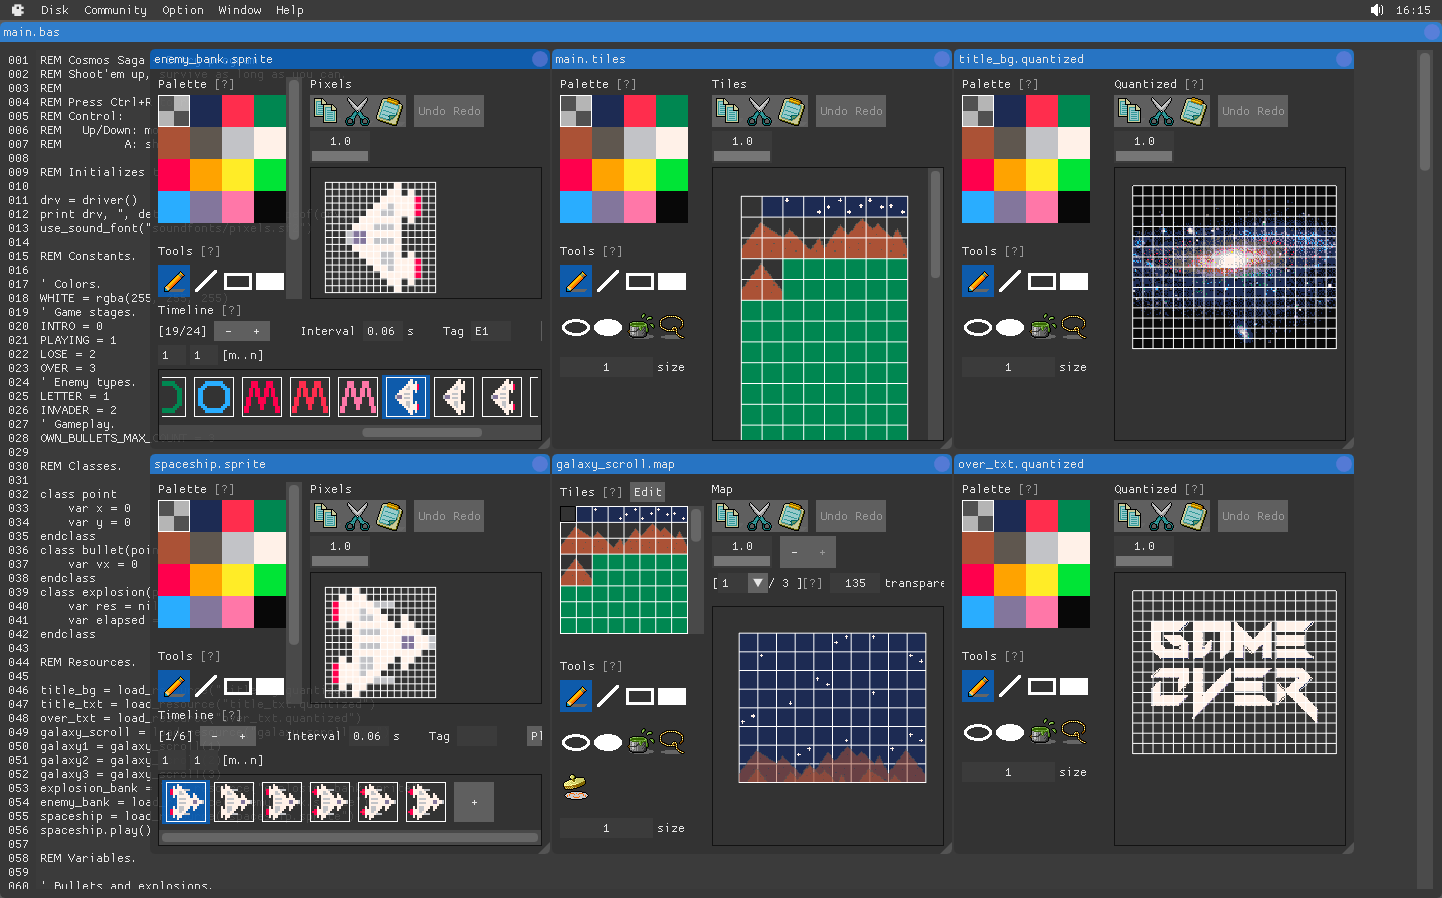
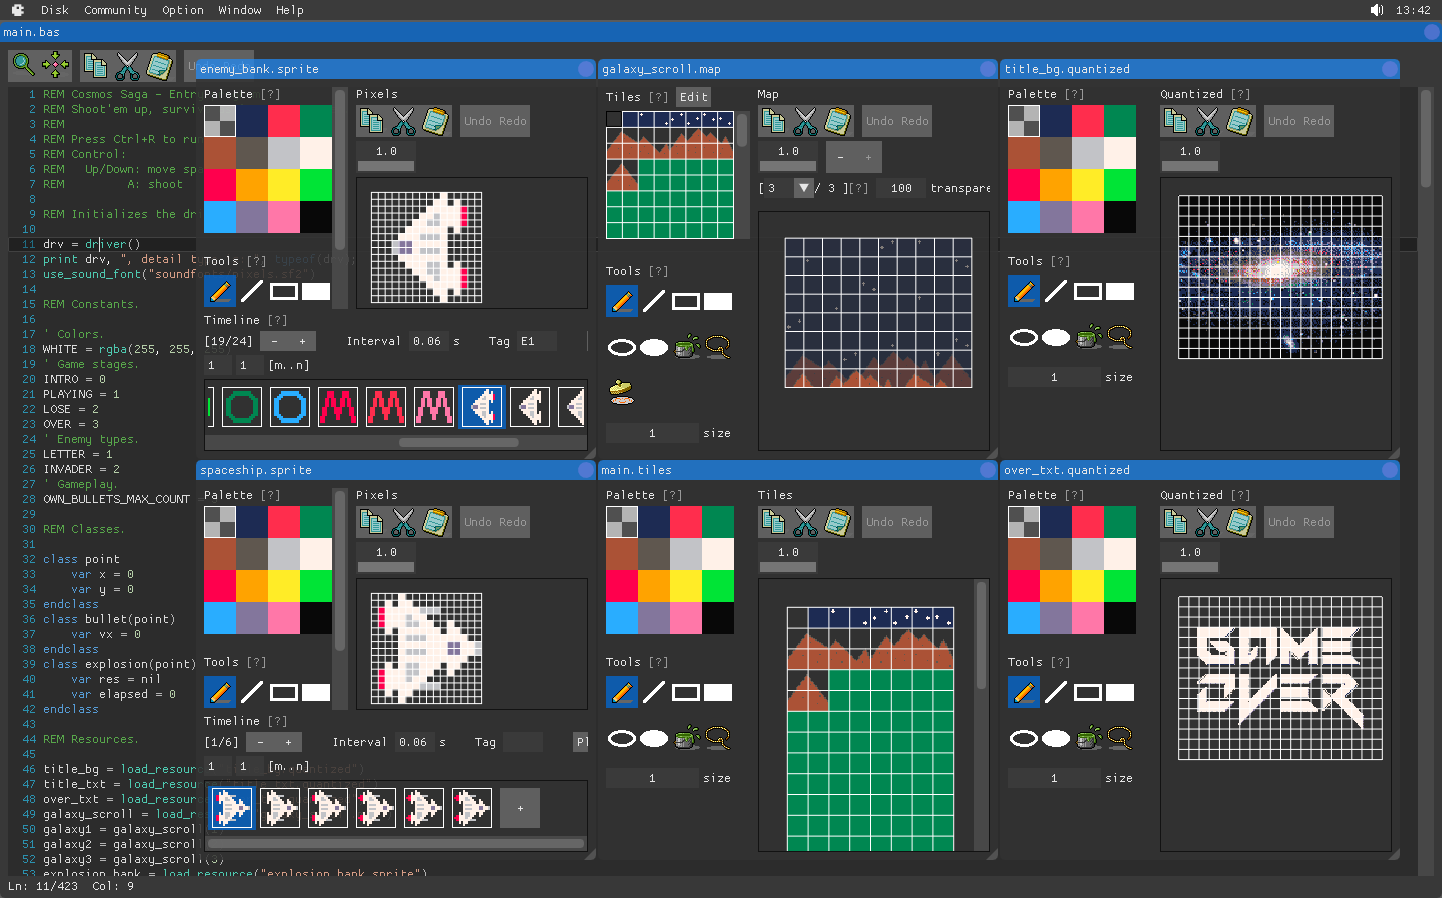
*v1.2.

diff --git a/README.md b/README.md
@@ -69,7 +69,7 @@ BASIC8 disks can be saved as "`*.b8`" file, "`*.png`", or text based for sharing
 | Links | |
 |----|----|
 | Discuss | [Forums](http://steamcommunity.com/app/767240/discussions/) |
-| Chat | [FANTASY CONSOLES, Discord](https://discord.gg/phR38jm) |
+| Chat | [#basic8](https://discord.gg/phR38jm) [Fantasy Consoles](https://discord.gg/e4cpeuV) |
 | Twitter | [@wangrenxin](https://twitter.com/wangrenxin), [#basic8fc](https://twitter.com/hashtag/basic8fc?src=hash) |
 | Devlogs | [Steam discussion](http://steamcommunity.com/app/767240/discussions/9/) |
 | Projects | [Tracking boards](https://github.com/paladin-t/b8/projects) |

diff --git a/docs/manual.md b/docs/manual.md
@@ -1559,9 +1559,9 @@ These operators are used to perform component-wise calculations:
 These operators are used to transform values:
 
 * `mat44 * mat44`
-* `mat44 * v3`: equals to `mat44 * VEC4(v3, 1)`, results in "vec3"
+* `mat44 * v3`: equals to `mat44 * VEC4(v3, 1)`, results in "vec4"
 * `mat44 * v4`
-* `v3 * mat44`: equals to `VEC4(v3, 1) * mat44`, results in "vec3"
+* `v3 * mat44`: equals to `VEC4(v3, 1) * mat44`, results in "vec4"
 * `v4 * mat44`
 
 Besides, these functions are used to do other linear computations:

diff --git a/docs/changelog.md b/docs/changelog.md
@@ -1,5 +1,18 @@
 <!-- Changes are categorized in community, language, libraries, editor. -->
 
+### v1.2
+
+Libraries:
+
+* Fix a vector calculation bug
+
+Editor:
+
+* Add syntax highlighting feature to the code editor
+* Add navigation methods in the code editor
+* Add default license to prebuilt source code
+* Fix a crash bug when switching to layer 0 of a map, with invalid tool selected
+
 ### v1.1.2
 
 Language:
